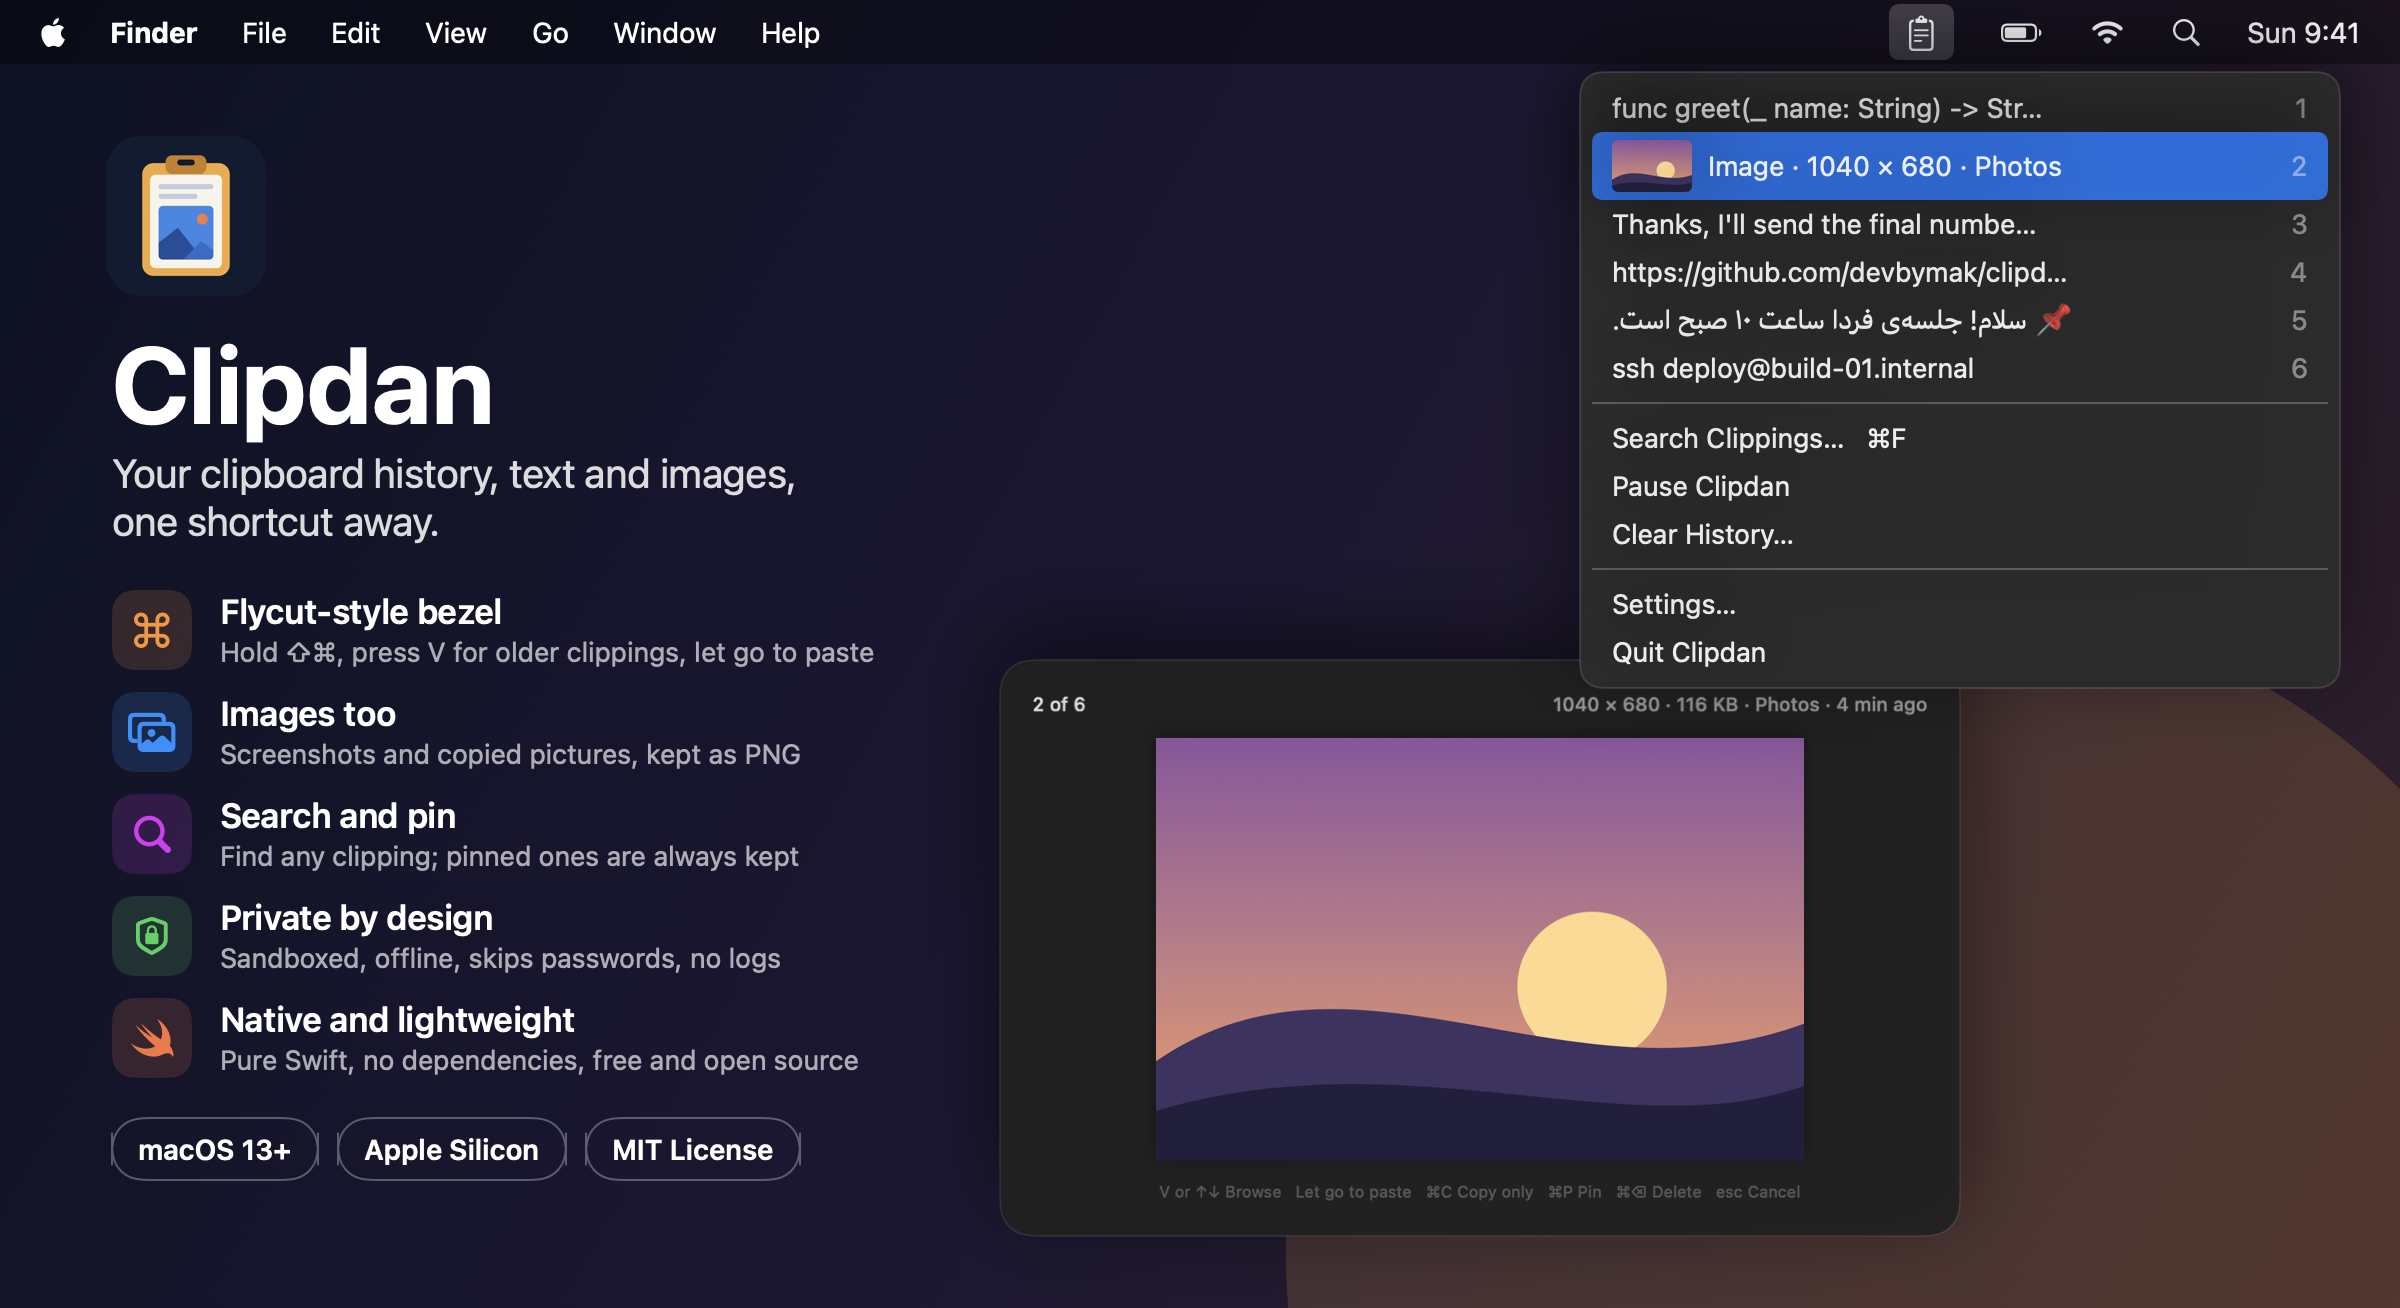
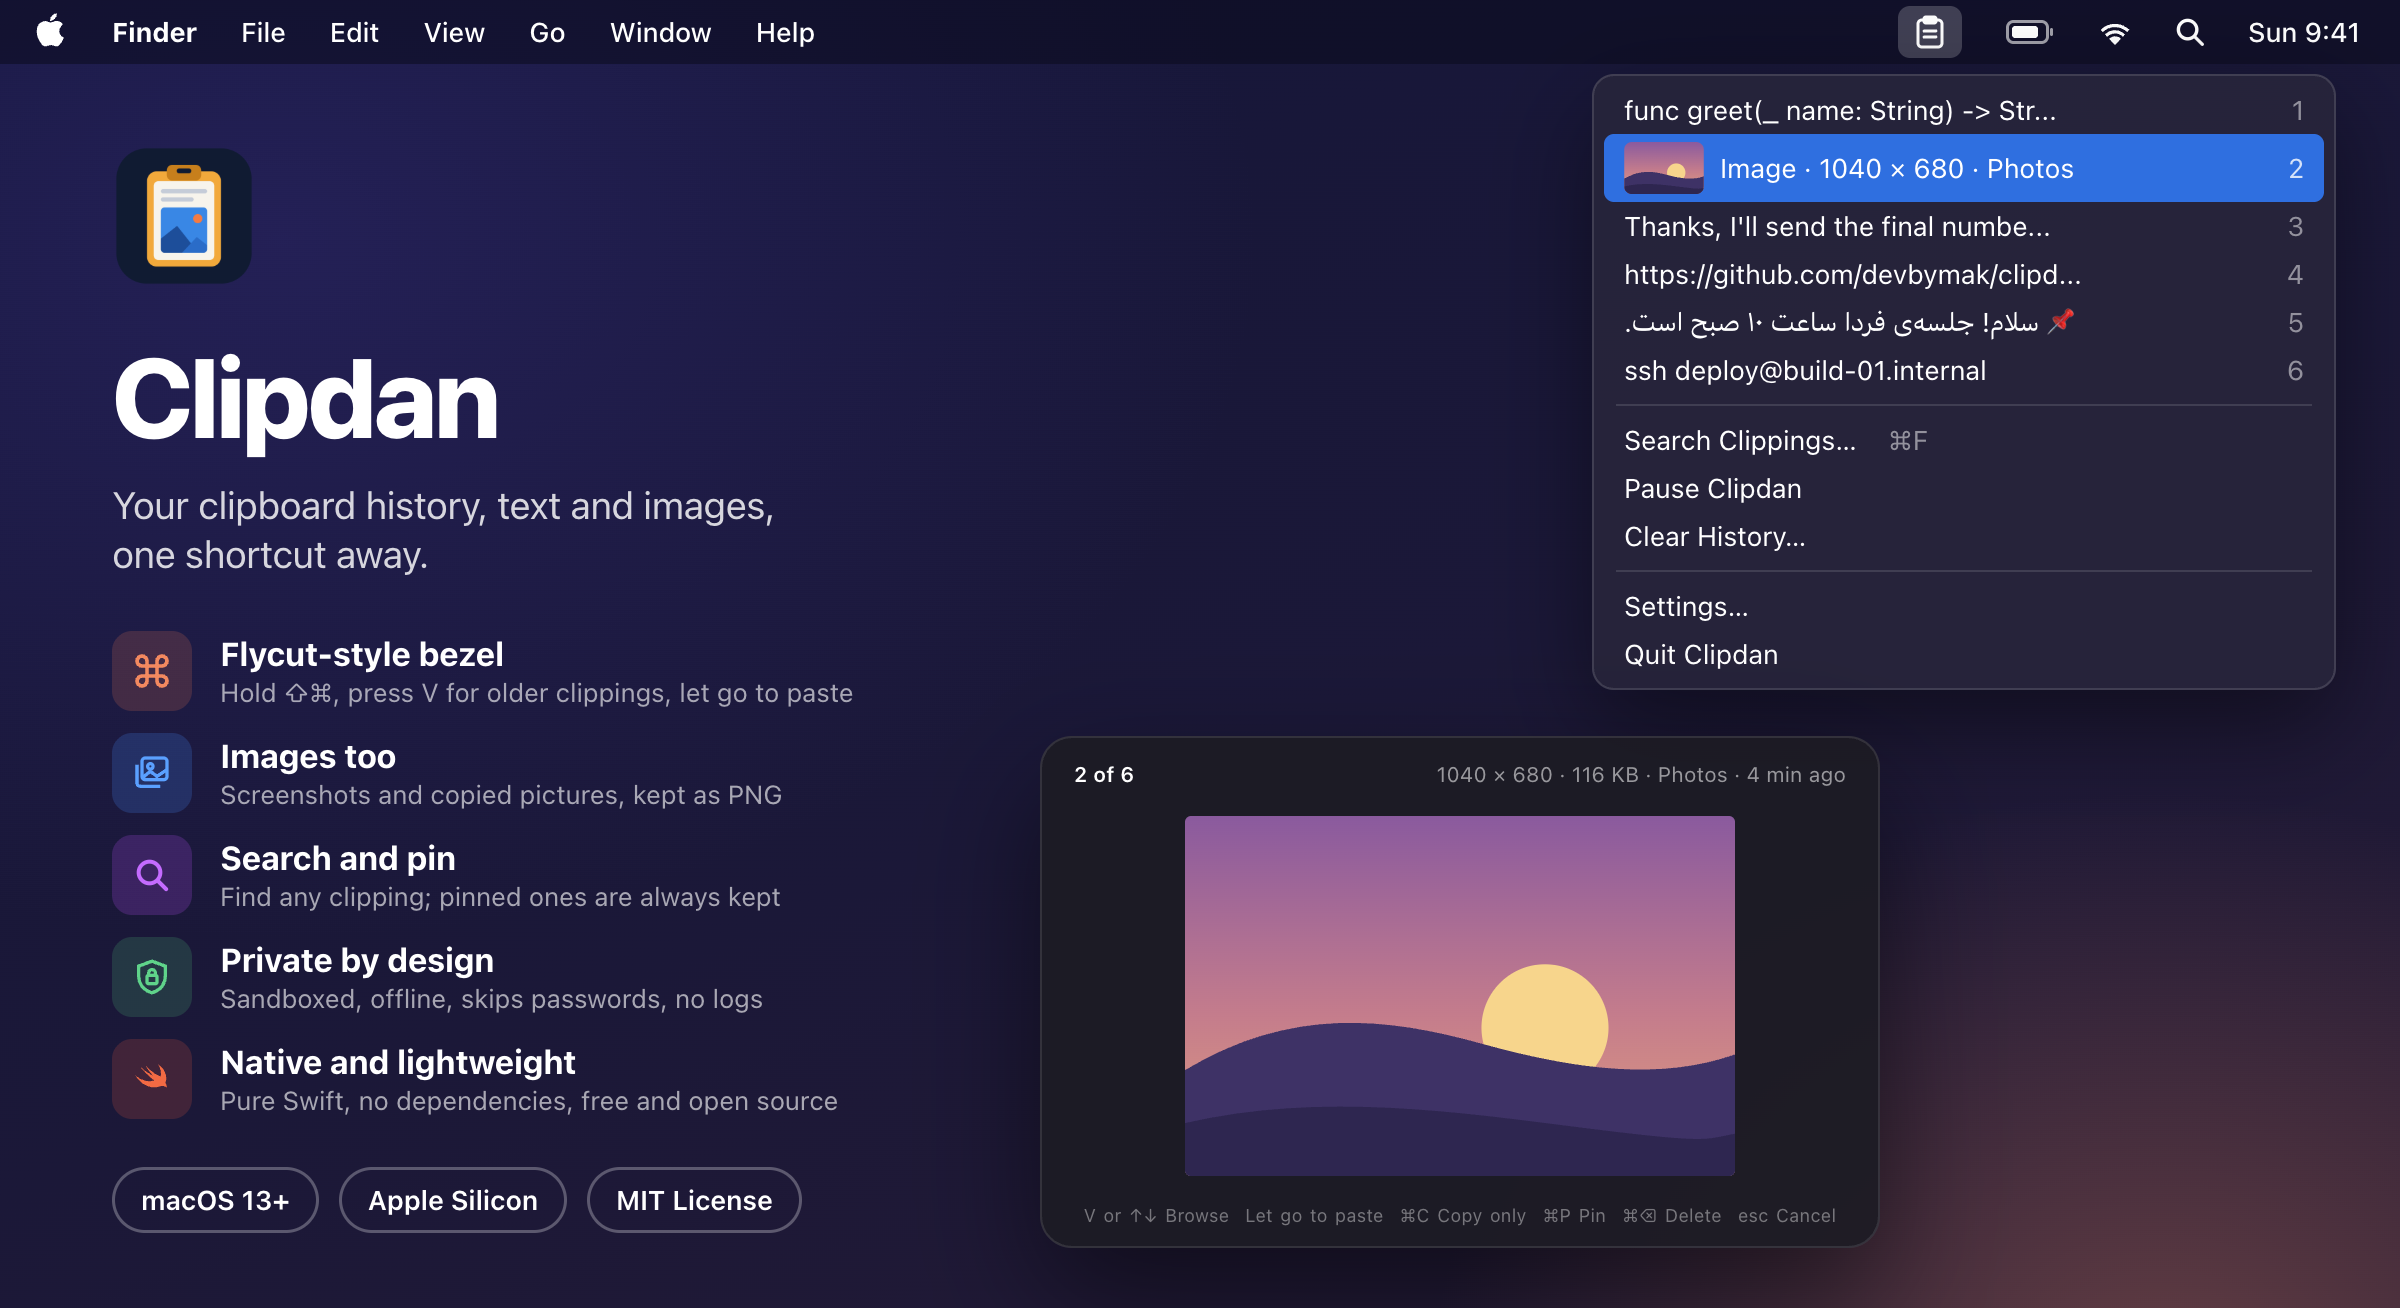
docs(readme): redraw cover so the menu and bezel no longer overlap
Add assets/cover.html as the cover's source so it can be re-rendered.

diff --git a/assets/cover.html b/assets/cover.html
@@ -1,0 +1,201 @@
+<!doctype html>
+<!-- Source for cover.png. Render at 1200x654, 2x:
+     "/Applications/Google Chrome.app/Contents/MacOS/Google Chrome" --headless=new --hide-scrollbars \
+       --window-size=1200,654 --force-device-scale-factor=2 --screenshot=assets/cover.png assets/cover.html -->
+<html>
+<head>
+<meta charset="utf-8">
+<title>Clipdan cover</title>
+<style>
+  * { box-sizing: border-box; margin: 0; padding: 0; }
+  html, body { width: 1200px; height: 654px; overflow: hidden; }
+  body {
+    position: relative;
+    font-family: -apple-system, BlinkMacSystemFont, "SF Pro Text", sans-serif;
+    color: #fff;
+    background:
+      radial-gradient(520px 420px at 1080px 690px, rgba(150, 90, 80, .55), transparent 70%),
+      radial-gradient(700px 500px at 140px 120px, rgba(60, 50, 140, .35), transparent 70%),
+      linear-gradient(160deg, #15163a 0%, #1b1838 55%, #241a33 100%);
+    -webkit-font-smoothing: antialiased;
+  }
+
+  /* Menu bar */
+  .menubar {
+    position: absolute; inset: 0 0 auto 0; height: 32px;
+    display: flex; align-items: center; padding: 0 20px 0 18px;
+    background: rgba(10, 10, 28, .55);
+    font-size: 13.5px; font-weight: 500;
+  }
+  .menubar .left { display: flex; gap: 22px; align-items: center; }
+  .menubar .apple { margin: -2px 2px 0 0; }
+  .menubar b { font-weight: 700; }
+  .menubar .right { margin-left: auto; display: flex; gap: 22px; align-items: center; }
+  .menubar .clip {
+    width: 32px; height: 26px; border-radius: 6px; background: rgba(255,255,255,.2);
+    display: grid; place-items: center;
+  }
+  .menubar svg { display: block; }
+
+  /* Left column */
+  .hero { position: absolute; left: 56px; top: 66px; width: 400px; }
+  .hero .icon img { display: block; width: 84px; height: 84px; margin-left: -6px; }
+  .hero h1 { font-size: 56px; font-weight: 800; letter-spacing: -1.5px; margin-top: 20px; line-height: 1; }
+  .hero .tag { font-size: 19px; color: rgba(255,255,255,.82); margin-top: 14px; line-height: 1.3; }
+  .features { list-style: none; margin-top: 26px; display: grid; gap: 11px; }
+  .features li { display: flex; gap: 14px; align-items: center; }
+  .features .fi {
+    flex: none; width: 40px; height: 40px; border-radius: 10px;
+    display: grid; place-items: center;
+  }
+  .features strong { display: block; font-size: 16.5px; font-weight: 700; }
+  .features span { display: block; font-size: 13px; color: rgba(255,255,255,.62); margin-top: 2px; }
+  .badges { display: flex; gap: 10px; margin-top: 24px; }
+  .badges span {
+    font-size: 13.5px; font-weight: 600; padding: 7px 13px;
+    border: 1.5px solid rgba(255,255,255,.28); border-radius: 999px;
+  }
+
+  /* Menu bar dropdown */
+  .menu {
+    position: absolute; top: 37px; right: 32px; width: 372px;
+    padding: 5px; border-radius: 11px;
+    background: rgba(38, 36, 58, .94);
+    border: 1px solid rgba(255,255,255,.12);
+    box-shadow: 0 18px 50px rgba(0,0,0,.45);
+    font-size: 13.5px;
+  }
+  .menu .row {
+    height: 24px; display: flex; align-items: center; padding: 0 10px; border-radius: 5px;
+    white-space: nowrap;
+  }
+  .menu .row .t { flex: 1; overflow: hidden; text-overflow: ellipsis; }
+  .menu .row .k { color: rgba(255,255,255,.5); margin-left: 14px; }
+  .menu .row.sel { background: #2f6fe0; height: 34px; }
+  .menu .row.sel .k { color: rgba(255,255,255,.8); }
+  .menu .thumb { width: 40px; height: 26px; border-radius: 4px; overflow: hidden; margin-right: 8px; flex: none; }
+  .menu .rtl { unicode-bidi: plaintext; text-align: left; }
+  .menu hr { border: 0; border-top: 1px solid rgba(255,255,255,.12); margin: 5px 6px; }
+  .menu .sc { color: rgba(255,255,255,.5); margin-left: 12px; }
+
+  /* Bezel */
+  .bezel {
+    position: absolute; left: 520px; top: 368px; width: 420px; height: 256px;
+    border-radius: 16px; padding: 12px 16px 10px;
+    background: rgba(28, 27, 36, .93);
+    border: 1px solid rgba(255,255,255,.1);
+    box-shadow: 0 24px 60px rgba(0,0,0,.5);
+    display: flex; flex-direction: column;
+  }
+  .bezel .head { display: flex; font-size: 10.5px; color: rgba(255,255,255,.55); }
+  .bezel .head b { color: #fff; font-weight: 600; }
+  .bezel .head .meta { margin-left: auto; }
+  .bezel .pic { flex: 1; display: grid; place-items: center; padding: 8px 0; }
+  .bezel .pic svg { height: 180px; width: auto; border-radius: 3px; }
+  .bezel .keys { font-size: 9px; color: rgba(255,255,255,.4); text-align: center; word-spacing: 1px; }
+  .bezel .keys i { font-style: normal; margin: 0 4px; }
+</style>
+</head>
+<body>
+
+<svg width="0" height="0" style="position:absolute">
+  <defs>
+    <linearGradient id="sky" x1="0" y1="0" x2="0" y2="1">
+      <stop offset="0" stop-color="#8a5a9e"/>
+      <stop offset=".55" stop-color="#c47c8c"/>
+      <stop offset="1" stop-color="#e3a07c"/>
+    </linearGradient>
+    <symbol id="sunset" viewBox="0 0 1040 680">
+      <rect width="1040" height="680" fill="url(#sky)"/>
+      <circle cx="680" cy="400" r="120" fill="#f7d58c"/>
+      <path d="M0 480 C 200 360, 380 380, 560 430 S 900 500, 1040 450 L1040 680 L0 680 Z" fill="#3e3266"/>
+      <path d="M0 580 C 260 520, 520 560, 760 590 S 980 610, 1040 600 L1040 680 L0 680 Z" fill="#2e2650"/>
+    </symbol>
+  </defs>
+</svg>
+
+<div class="menubar">
+  <div class="left">
+    <svg class="apple" width="14" height="17" viewBox="0 0 814 1000" fill="#fff"><path d="M788 341c-6 4-106 61-106 186 0 145 127 196 131 197-1 3-20 70-67 138-42 60-85 120-152 120s-84-39-161-39c-75 0-102 40-163 40s-104-56-153-125C61 778 15 652 15 532c0-193 126-296 249-296 66 0 121 43 162 43 39 0 101-46 176-46 29 0 131 3 186 108zM558 161c31-36 52-87 52-137 0-7-1-14-2-20-50 2-109 33-145 75-28 32-55 83-55 135 0 8 1 15 2 18 3 1 9 1 14 1 45 0 101-30 134-72z"/></svg>
+    <b>Finder</b><span>File</span><span>Edit</span><span>View</span><span>Go</span><span>Window</span><span>Help</span>
+  </div>
+  <div class="right">
+    <span class="clip">
+      <svg width="14" height="17" viewBox="0 0 14 17" fill="none" stroke="#fff" stroke-width="1.5">
+        <rect x="1" y="2.5" width="12" height="13.5" rx="2"/><rect x="4" y="1" width="6" height="3" rx="1" fill="#fff"/>
+        <path d="M4 8h6M4 11h6" stroke-linecap="round"/>
+      </svg>
+    </span>
+    <svg width="24" height="12" viewBox="0 0 24 12" fill="none"><rect x=".75" y=".75" width="20" height="10.5" rx="3" stroke="#fff" stroke-opacity=".6" stroke-width="1.5"/><rect x="3" y="3" width="13" height="6" rx="1.5" fill="#fff"/><rect x="22" y="4" width="1.5" height="4" rx=".75" fill="#fff" fill-opacity=".6"/></svg>
+    <svg width="17" height="13" viewBox="0 0 17 13" fill="#fff"><path d="M8.5 13 5.6 9.9a4 4 0 0 1 5.8 0zM3.5 7.7a7 7 0 0 1 10 0l-1.1 1.2a5.4 5.4 0 0 0-7.8 0zM1.3 5.4a10.2 10.2 0 0 1 14.4 0l-1.1 1.2a8.6 8.6 0 0 0-12.2 0z"/></svg>
+    <svg width="14" height="14" viewBox="0 0 14 14" fill="none" stroke="#fff" stroke-width="1.7"><circle cx="5.8" cy="5.8" r="4.6"/><path d="m9.3 9.3 3.8 3.8" stroke-linecap="round"/></svg>
+    <span>Sun 9:41</span>
+  </div>
+</div>
+
+<div class="hero">
+  <div class="icon"><img src="app-icon.png" alt=""></div>
+  <h1>Clipdan</h1>
+  <p class="tag">Your clipboard history, text and images,<br>one shortcut away.</p>
+  <ul class="features">
+    <li>
+      <div class="fi" style="background:rgba(240,120,80,.18)">
+        <svg width="20" height="20" viewBox="0 0 24 24" fill="none" stroke="#f3895f" stroke-width="2.2"><path d="M9 9V6a3 3 0 1 0-3 3h12a3 3 0 1 0-3-3v12a3 3 0 1 0 3-3H6a3 3 0 1 0 3 3V9z"/></svg>
+      </div>
+      <div><strong>Flycut-style bezel</strong><span>Hold ⇧⌘, press V for older clippings, let go to paste</span></div>
+    </li>
+    <li>
+      <div class="fi" style="background:rgba(70,140,255,.2)">
+        <svg width="20" height="20" viewBox="0 0 24 24" fill="none" stroke="#5aa0ff" stroke-width="2"><rect x="6" y="3" width="15" height="13" rx="2"/><path d="M3 7v11a2 2 0 0 0 2 2h12"/><circle cx="11" cy="8" r="1.6"/><path d="m6 15 5-4 4 3 6-4"/></svg>
+      </div>
+      <div><strong>Images too</strong><span>Screenshots and copied pictures, kept as PNG</span></div>
+    </li>
+    <li>
+      <div class="fi" style="background:rgba(190,80,255,.2)">
+        <svg width="20" height="20" viewBox="0 0 24 24" fill="none" stroke="#c46bff" stroke-width="2.4"><circle cx="10.5" cy="10.5" r="6.5"/><path d="m15.5 15.5 5 5" stroke-linecap="round"/></svg>
+      </div>
+      <div><strong>Search and pin</strong><span>Find any clipping; pinned ones are always kept</span></div>
+    </li>
+    <li>
+      <div class="fi" style="background:rgba(80,200,120,.18)">
+        <svg width="20" height="20" viewBox="0 0 24 24" fill="none" stroke="#5fd38a" stroke-width="2"><path d="M12 2.5 4 5.5v6c0 5 3.4 8.7 8 10 4.6-1.3 8-5 8-10v-6z"/><rect x="9" y="11" width="6" height="5" rx="1"/><path d="M10 11V9.5a2 2 0 0 1 4 0V11"/></svg>
+      </div>
+      <div><strong>Private by design</strong><span>Sandboxed, offline, skips passwords, no logs</span></div>
+    </li>
+    <li>
+      <div class="fi" style="background:rgba(240,90,60,.18)">
+        <svg width="20" height="20" viewBox="0 0 24 24" fill="#f26a43"><path d="M15.5 3c4 2.7 6 7 4.6 11.3.6.9.9 2 .7 3-1-1.2-2.4-1.3-3.6-1-3 1.3-7.2 1.1-11-1.7C4.5 13.2 3 11.6 2 10c3.6 2.8 8 4.3 11.3 2.9C10 10.5 7.2 7.5 5 4.8c2.3 2 5 3.9 7.6 5.3-1.7-1.8-3.3-4-4.4-5.9 3 2.8 6.4 5.5 9 6.4.6-2.6-.2-5.2-1.7-7.6z"/></svg>
+      </div>
+      <div><strong>Native and lightweight</strong><span>Pure Swift, no dependencies, free and open source</span></div>
+    </li>
+  </ul>
+  <div class="badges"><span>macOS 13+</span><span>Apple Silicon</span><span>MIT License</span></div>
+</div>
+
+<div class="menu">
+  <div class="row"><span class="t">func greet(_ name: String) -&gt; Str...</span><span class="k">1</span></div>
+  <div class="row sel">
+    <span class="thumb"><svg width="40" height="26" preserveAspectRatio="xMidYMid slice"><use href="#sunset"/></svg></span>
+    <span class="t">Image · 1040 × 680 · Photos</span><span class="k">2</span>
+  </div>
+  <div class="row"><span class="t">Thanks, I'll send the final numbe...</span><span class="k">3</span></div>
+  <div class="row"><span class="t">https://github.com/devbymak/clipd...</span><span class="k">4</span></div>
+  <div class="row"><span class="t rtl">📌 سلام! جلسهی فردا ساعت ۱۰ صبح است.</span><span class="k">5</span></div>
+  <div class="row"><span class="t">ssh deploy@build-01.internal</span><span class="k">6</span></div>
+  <hr>
+  <div class="row"><span class="t">Search Clippings… <span class="sc">⌘F</span></span></div>
+  <div class="row"><span class="t">Pause Clipdan</span></div>
+  <div class="row"><span class="t">Clear History…</span></div>
+  <hr>
+  <div class="row"><span class="t">Settings…</span></div>
+  <div class="row"><span class="t">Quit Clipdan</span></div>
+</div>
+
+<div class="bezel">
+  <div class="head"><b>2 of 6</b><span class="meta">1040 × 680 · 116 KB · Photos · 4 min ago</span></div>
+  <div class="pic"><svg viewBox="0 0 1040 680"><use href="#sunset"/></svg></div>
+  <div class="keys"><i>V or ↑↓ Browse</i><i>Let go to paste</i><i>⌘C Copy only</i><i>⌘P Pin</i><i>⌘⌫ Delete</i><i>esc Cancel</i></div>
+</div>
+
+</body>
+</html>

diff --git a/readme.md b/readme.md
@@ -82,7 +82,7 @@ xcrun notarytool submit Clipdan.zip --keychain-profile <profile> --wait
 xcrun stapler staple Clipdan.app
 ```
 
-`assets/app-icon.swift` draws the app icon; run `xcrun swift assets/app-icon.swift assets/app-icon.png` to regenerate it. The cover uses demo data.
+`assets/app-icon.swift` draws the app icon; run `xcrun swift assets/app-icon.swift assets/app-icon.png` to regenerate it. `assets/cover.html` is the cover, with demo data; the command to render it to `assets/cover.png` is at the top of the file.
 
 </details>
 
